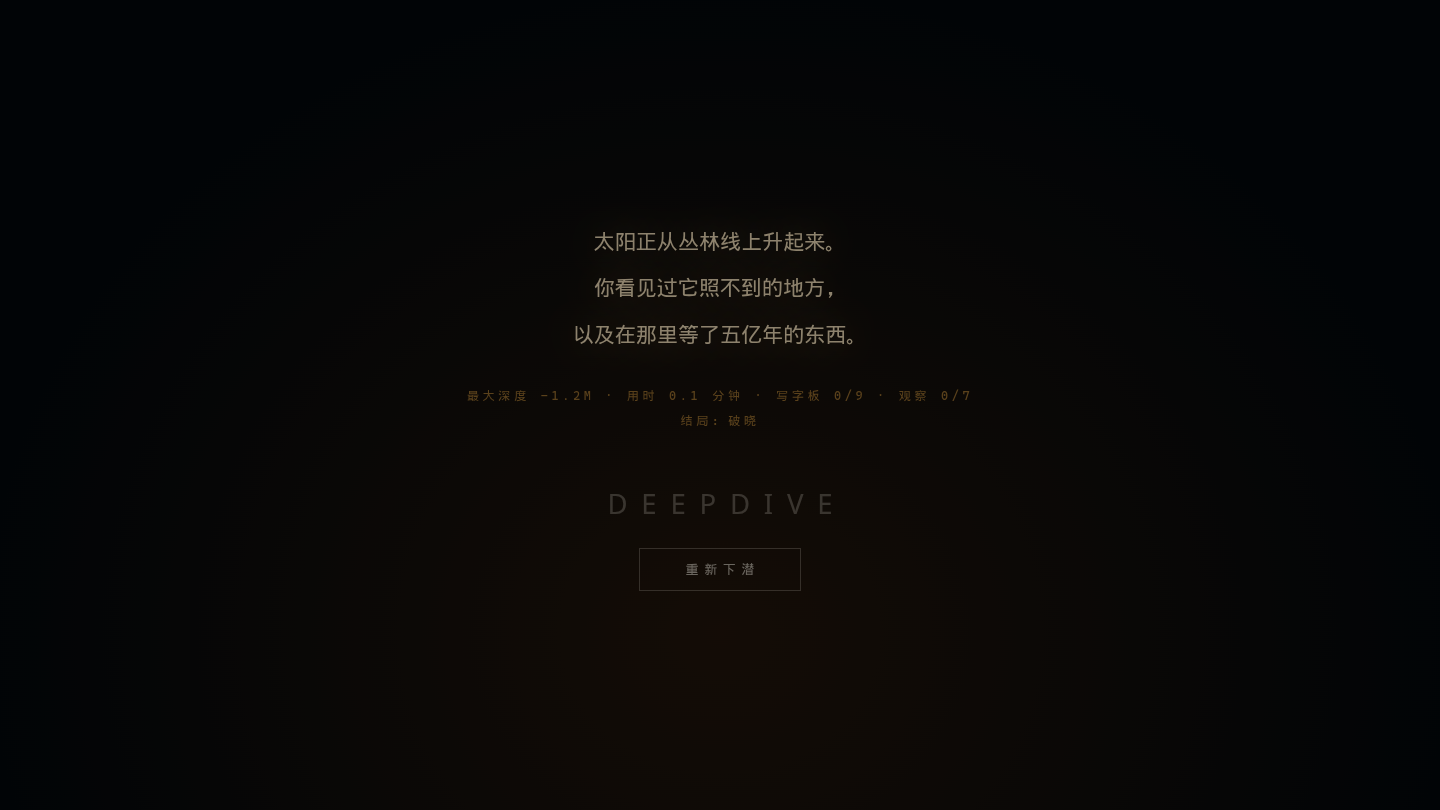
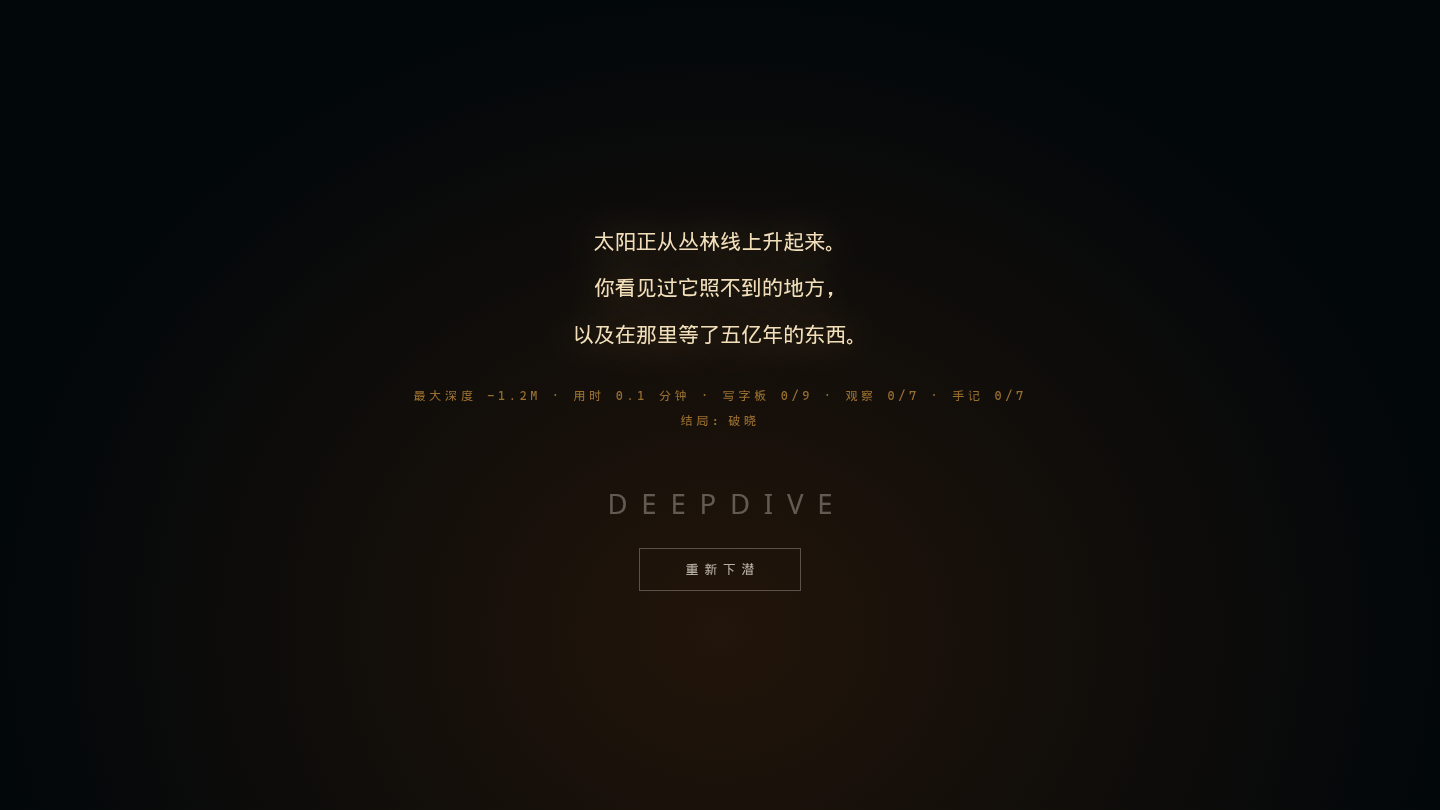
feat(M4-L6): 自然观察手记+复盘工具——7类生物首见近距触发一次性教学字幕(科学诚实口吻+N/7计数,0.6s节流,写字板互斥);三结局统计加入手记计数;__dd.notes()/report()一键复盘(阶段/资源/收集/到访/减压);flow三结局+sim五场景全绿

diff --git a/src/game/Game.ts b/src/game/Game.ts
@@ -50,6 +50,22 @@ const ZONE_BANNER: Record<ZoneName, { cn: string; en: string }> = {
   chimney: { cn: '荧光烟囱', en: 'GLOW CHIMNEY' },
 };
 
+/** M4-L6 自然观察手记：靠近某类生物首次触发的一次性教学字幕（生态互动+科学诚实口吻） */
+const NATURE_NOTES: {
+  key: string;
+  group: 'school' | 'blind' | 'cruisers' | 'crayfish' | 'remipedes' | 'jellies' | 'bats';
+  dist: number;
+  text: string;
+}[] = [
+  { key: 'school', group: 'school', dist: 7, text: '银汉鱼群。它们只住在有光的水层——\n再往下，光和它们都会一起消失。' },
+  { key: 'cruiser', group: 'cruisers', dist: 5, text: '一条独游的大鱼。海鲢会沿暗河缝隙进出天坑上层，\n把这里当作安静的食堂。' },
+  { key: 'blind', group: 'blind', dist: 3.5, text: '尤卡坦盲鳚。终生的黑暗拿走了眼睛和色素，\n只留下侧线里的一张水压地图。' },
+  { key: 'crayfish', group: 'crayfish', dist: 2.6, text: '洞穴盲螯虾。苍白、缓慢、几乎透明——\n在没有季节的水里，它们能活几十年。' },
+  { key: 'remipede', group: 'remipedes', dist: 3, text: '桨足类。盲眼的深层猎手，只住在海水入侵的洞穴水体，\n1979 年人类才第一次见到它们。' },
+  { key: 'jelly', group: 'jellies', dist: 3.5, text: '水螅水母。掌心大小的半透明伞体，随卤下水团漂移——\n淡水层里看不到它们。' },
+  { key: 'bat', group: 'bats', dist: 5, text: '蝙蝠群。它们的粪便是这座洞穴无脊椎食物网的能量来源——\n这个气穴是它们的家，不是出口。' },
+];
+
 export class Game {
   private q = detectQuality();
   private models = new Models();
@@ -117,6 +133,10 @@ export class Game {
   private airPocketTold = false;
   private nextDripAt = 0;
   private nextRumbleAt = 45;
+
+  // M4-L6 自然观察手记
+  private noteTimer = 0;
+  private notesSeen = new Set<string>();
 
   // M4-L5 自适应降档：低帧持续 → 阶梯降 DPR；富余持续 → 缓慢回升
   private fpsEma = 60;
@@ -214,6 +234,7 @@ export class Game {
         'sight()/sightAt(k)': '远古目击触发/跳节点',
         'silt(s)': '搅浑水 s 秒（0=立即恢复）',
         'state()/fish()/buddy()/relics()/simState()': '状态查询',
+        'notes()/report()': '自然手记进度 / 本次运行复盘（深度/资源/收集/到访分区）',
         'sim(id)/simScale(k)': '安全模拟关启动/时间缩放',
         'buddyGesture(k)/buddyWarp()': '潜伴手势/瞬移到身边',
         'mark(name)/boat()': '地标坐标查询',
@@ -365,6 +386,21 @@ export class Game {
         this.buddy.spawn(this.player.position.clone().add(new THREE.Vector3(-1.4, 0.6, 1.4)));
       },
       relics: () => `${this.story.relicsSeen}/${this.story.relicTotal}`,
+      notes: () => `${this.notesSeen.size}/${NATURE_NOTES.length}: ${Array.from(this.notesSeen).join(',')}`,
+      report: () => ({
+        mode: this.mode,
+        phase: this.phase,
+        minutes: +((this.time - this.startedAt) / 60).toFixed(1),
+        maxDepth: +this.maxDepth.toFixed(1),
+        o2: +this.oxygen.toFixed(1),
+        n2: +this.nitrogen.toFixed(1),
+        slates: `${this.story.slatesFound}/${this.story.slateTotal}`,
+        relics: `${this.story.relicsSeen}/${this.story.relicTotal}`,
+        notes: `${this.notesSeen.size}/${NATURE_NOTES.length}`,
+        zonesVisited: Array.from(this.seenZones),
+        branchesVisited: Array.from(this.seenBranches),
+        decoDone: this.decoDone,
+      }),
       sim: (id: number) => this.startSim(id),
       simState: () => this.sim.debugState(),
       simScale: (k: number) => { this.sim.debugScale = Math.max(1, k); },
@@ -874,6 +910,9 @@ export class Game {
     // ---- 分区氛围事件（蝙蝠惊起 / 气穴滴水 / 深区闷响） ----
     this.updateAtmosphere();
 
+    // ---- 自然观察手记（生态互动：靠近首见触发） ----
+    this.updateNatureNotes(dt);
+
     // ---- 心跳张力 ----
     const o2 = this.oxygen / 100;
     const base = o2 < 0.3 ? Math.min(0.85, (0.3 - o2) * 3) : 0;
@@ -1117,17 +1156,43 @@ export class Game {
         this.hud.showEnding(
           'bends',
           '你趴在船板上，关节里有细小的针。\n咳出的泡沫在晨光里是粉红色的。\n你把深渊带上来了一点。',
-          `最大深度 -${this.maxDepth.toFixed(1)}M · 用时 ${timeStr} 分钟 · 写字板 ${slates}/${this.story.slateTotal} · 观察 ${this.story.relicsSeen}/${this.story.relicTotal}\n结局：血里的针（跳过了减压停留）`,
+          `最大深度 -${this.maxDepth.toFixed(1)}M · 用时 ${timeStr} 分钟 · 写字板 ${slates}/${this.story.slateTotal} · 观察 ${this.story.relicsSeen}/${this.story.relicTotal} · 手记 ${this.notesSeen.size}/${NATURE_NOTES.length}\n结局：血里的针（跳过了减压停留）`,
         );
       } else {
         this.hud.showEnding(
           'dawn',
           '太阳正从丛林线上升起来。\n你看见过它照不到的地方，\n以及在那里等了五亿年的东西。',
-          `最大深度 -${this.maxDepth.toFixed(1)}M · 用时 ${timeStr} 分钟 · 写字板 ${slates}/${this.story.slateTotal} · 观察 ${this.story.relicsSeen}/${this.story.relicTotal}\n结局：破晓`,
+          `最大深度 -${this.maxDepth.toFixed(1)}M · 用时 ${timeStr} 分钟 · 写字板 ${slates}/${this.story.slateTotal} · 观察 ${this.story.relicsSeen}/${this.story.relicTotal} · 手记 ${this.notesSeen.size}/${NATURE_NOTES.length}\n结局：破晓`,
         );
       }
       document.exitPointerLock?.();
     }, 2600);
+  }
+
+  /** M4-L6 自然观察手记：0.6s 一次的近距检测，首次靠近某类生物弹一次教学字幕并计数 */
+  private updateNatureNotes(dt: number): void {
+    if (this.mode !== 'story' || this.hud.slateOpen) return;
+    this.noteTimer += dt;
+    if (this.noteTimer < 0.6) return;
+    this.noteTimer = 0;
+    const pp = this.player.position;
+    for (const n of NATURE_NOTES) {
+      if (this.notesSeen.has(n.key)) continue;
+      let p: [number, number, number] | null;
+      if (n.group === 'school') {
+        const pc = this.cave.poolCenter;
+        p = [pc.x, -6, pc.z]; // 鱼群绕天光井光柱（Ecology.fishCenter 同源）
+      } else {
+        p = this.ecology.probeNearest(n.group, pp);
+      }
+      if (!p) continue;
+      const dx = p[0] - pp.x, dy = p[1] - pp.y, dz = p[2] - pp.z;
+      if (dx * dx + dy * dy + dz * dz < n.dist * n.dist) {
+        this.notesSeen.add(n.key);
+        this.hud.subtitle(n.text, `自然手记 ${this.notesSeen.size}/${NATURE_NOTES.length}`, 7);
+        break; // 一次只弹一条
+      }
+    }
   }
 
   /** M4-L4 分区氛围事件：蝙蝠群惊起（音频+字幕）、气穴滴水声景、深区远处岩层闷响 */

diff --git a/docs/WORKFLOW.md b/docs/WORKFLOW.md
@@ -186,6 +186,7 @@
 | L3 | 2026-08-26 02:25 | 03:00 | 35m | 连通性+debug：支线C 蝙蝠气室（回廊上爬升→水面气穴+粪堆锥+30 只倒挂蝙蝠+裂隙漏光+假出口水面）、支线D 塌方旁道（沉船厅↔深渊双开口捷径环路，cookie×3+洞口岩石环×2+口灯）、错绳末端窥视缝微光；S8 气穴警示/S9 旁道说明写字板+旁道奖励气瓶 T5；`__dd` 工具箱：help/tp(分区+支线+地标)/eco(6 组生态开关)/perf(FPS/drawcall/tris/灯数 HUD)/pick(准星射线诊断)；贯通验证：旁道 p4 t0→0.93 连续、气室可达顶部。踩坑：支线中段贴大厅锥形半径过渡带被误裁出透天破面→裁剪限定两端领圈；旁道端点伸入腔体 10m+ 在领圈外留悬浮残壁→端点退至腔界 1~2m+洞口岩石环遮锯齿 |
 | L4 | 2026-08-26 03:00 | 03:55 | 55m | 分区真实生态（§3.9 落地）：水母尺度修正为掌心水螅水母（0.6~1.7m→0.16~0.30m，数量×2，感知/漂移随体型收缩）；盲鱼/巡游大鱼迁回淡水层（回廊首见+光之厅成群/天光井-回廊-光之厅，卤下不放淡水种）；新增桨足类 ×18（沉船/深渊，分节体+侧桨+触角合并中模，腹面朝上泳姿）、盲螯虾 ×6（光之厅/塌方底栖，尾弹逃逸反射，一次性射线求真实洞底）、端足类微尘 ×140（回廊壁面，距离粗判节流）、蝙蝠受惊状态机（roost→fly 9s→return→45s 冷却，栖息态零逐帧开销，事件驱动扑翼音+字幕）；气室岩石穹顶封口+穹顶裂缝发光板；卤水枯枝分段材质硫菌白霜+洞底菌席毯 ×6；气穴空气段（雾/曝光/低通切换+滴水回声+氨味警示）；深区雾呼吸 ±7% + 远处岩层闷响（24~56s 随机）；`__dd` 新增 creature/creatureNear；flow-test 三结局+sim-test 五场景全绿。踩坑：离轴 move 被物理 resolve 拉回 8m（验证改为站轴瞄准最近个体）、固定比例落地把 16cm 螯虾埋进噪声地板（改射线求底）、支线管末端开口环透天看到天空球（椭球岩壳封口+rim 沉入水下） |
 | L5 | 2026-08-26 03:55 | 04:35 | 40m | 性能专项：①灯光预算封顶——区域光距离过滤后按距排序只开最近 10 盏（mobile 6）、道具辉光最近 6 盏（前向渲染每盏可见点光都进片元循环）；②地标簇距离剔除——蝙蝠气室/卤水层(云面+枯枝+菌席)/沉船/祭坛/光之烛台/井口组/旁道标记/窥视缝 8 个簇按 50~85m 半径整组启停（无遮挡剔除的补偿，雾外整组不画）；③生态按距节流——鱼群>45m、浮游>60m、水母>55m 时每 3~4 帧才刷行为与实例矩阵，气泡帘恒定半帧率+dt 补偿，端足类距离粗判直接跳过；④自适应 DPR——帧率 EMA<34 持续 3s 阶梯降 12%（下限 0.6），>56 持续 8s 回升 8%，`__dd.adapt()` 可关（无头截图脚本已全部关闭防降糊）；⑤`__dd.stats()` 指标快照。逐区实测（headless 1440×810）：drawcalls 24~350、tris 55~70 万、可见灯 3~13/38；跨区抽查无剔除突跳。 |
+| L6 | 2026-08-26 04:35 | 04:50 | 15m | 生态互动+复盘工具：①自然观察手记系统——7 类生物（鱼群/海鲢/盲鳚/盲螯虾/桨足类/水螅水母/蝙蝠）首次近距（2.6~7m 分级）触发一次性教学字幕（科学诚实口吻+「自然手记 N/7」计数），0.6s 节流检测、写字板打开时暂停、一次只弹一条；②三结局统计行加入手记计数，鼓励生态探索重玩；③`__dd.notes()` 查已见手记、`__dd.report()` 一键复盘（模式/阶段/用时/深度/氧氮/写字板/遗物/手记/到访分区支线/减压状态）。无头验证：水母 2.4m/盲螯虾 1.5m 处均触发入账，report 字段齐全；flow-test 三结局+sim-test 五场景全绿（结局图因新增手记统计行更新）。踩坑：传送触发的剧情写字板挡住手记检测（slateOpen 早退），验证脚本需「关板→留 0.6s+ 检测窗→板再弹则重复」循环而非单次关板 |
 
 ## 4. 技术工作流
 
